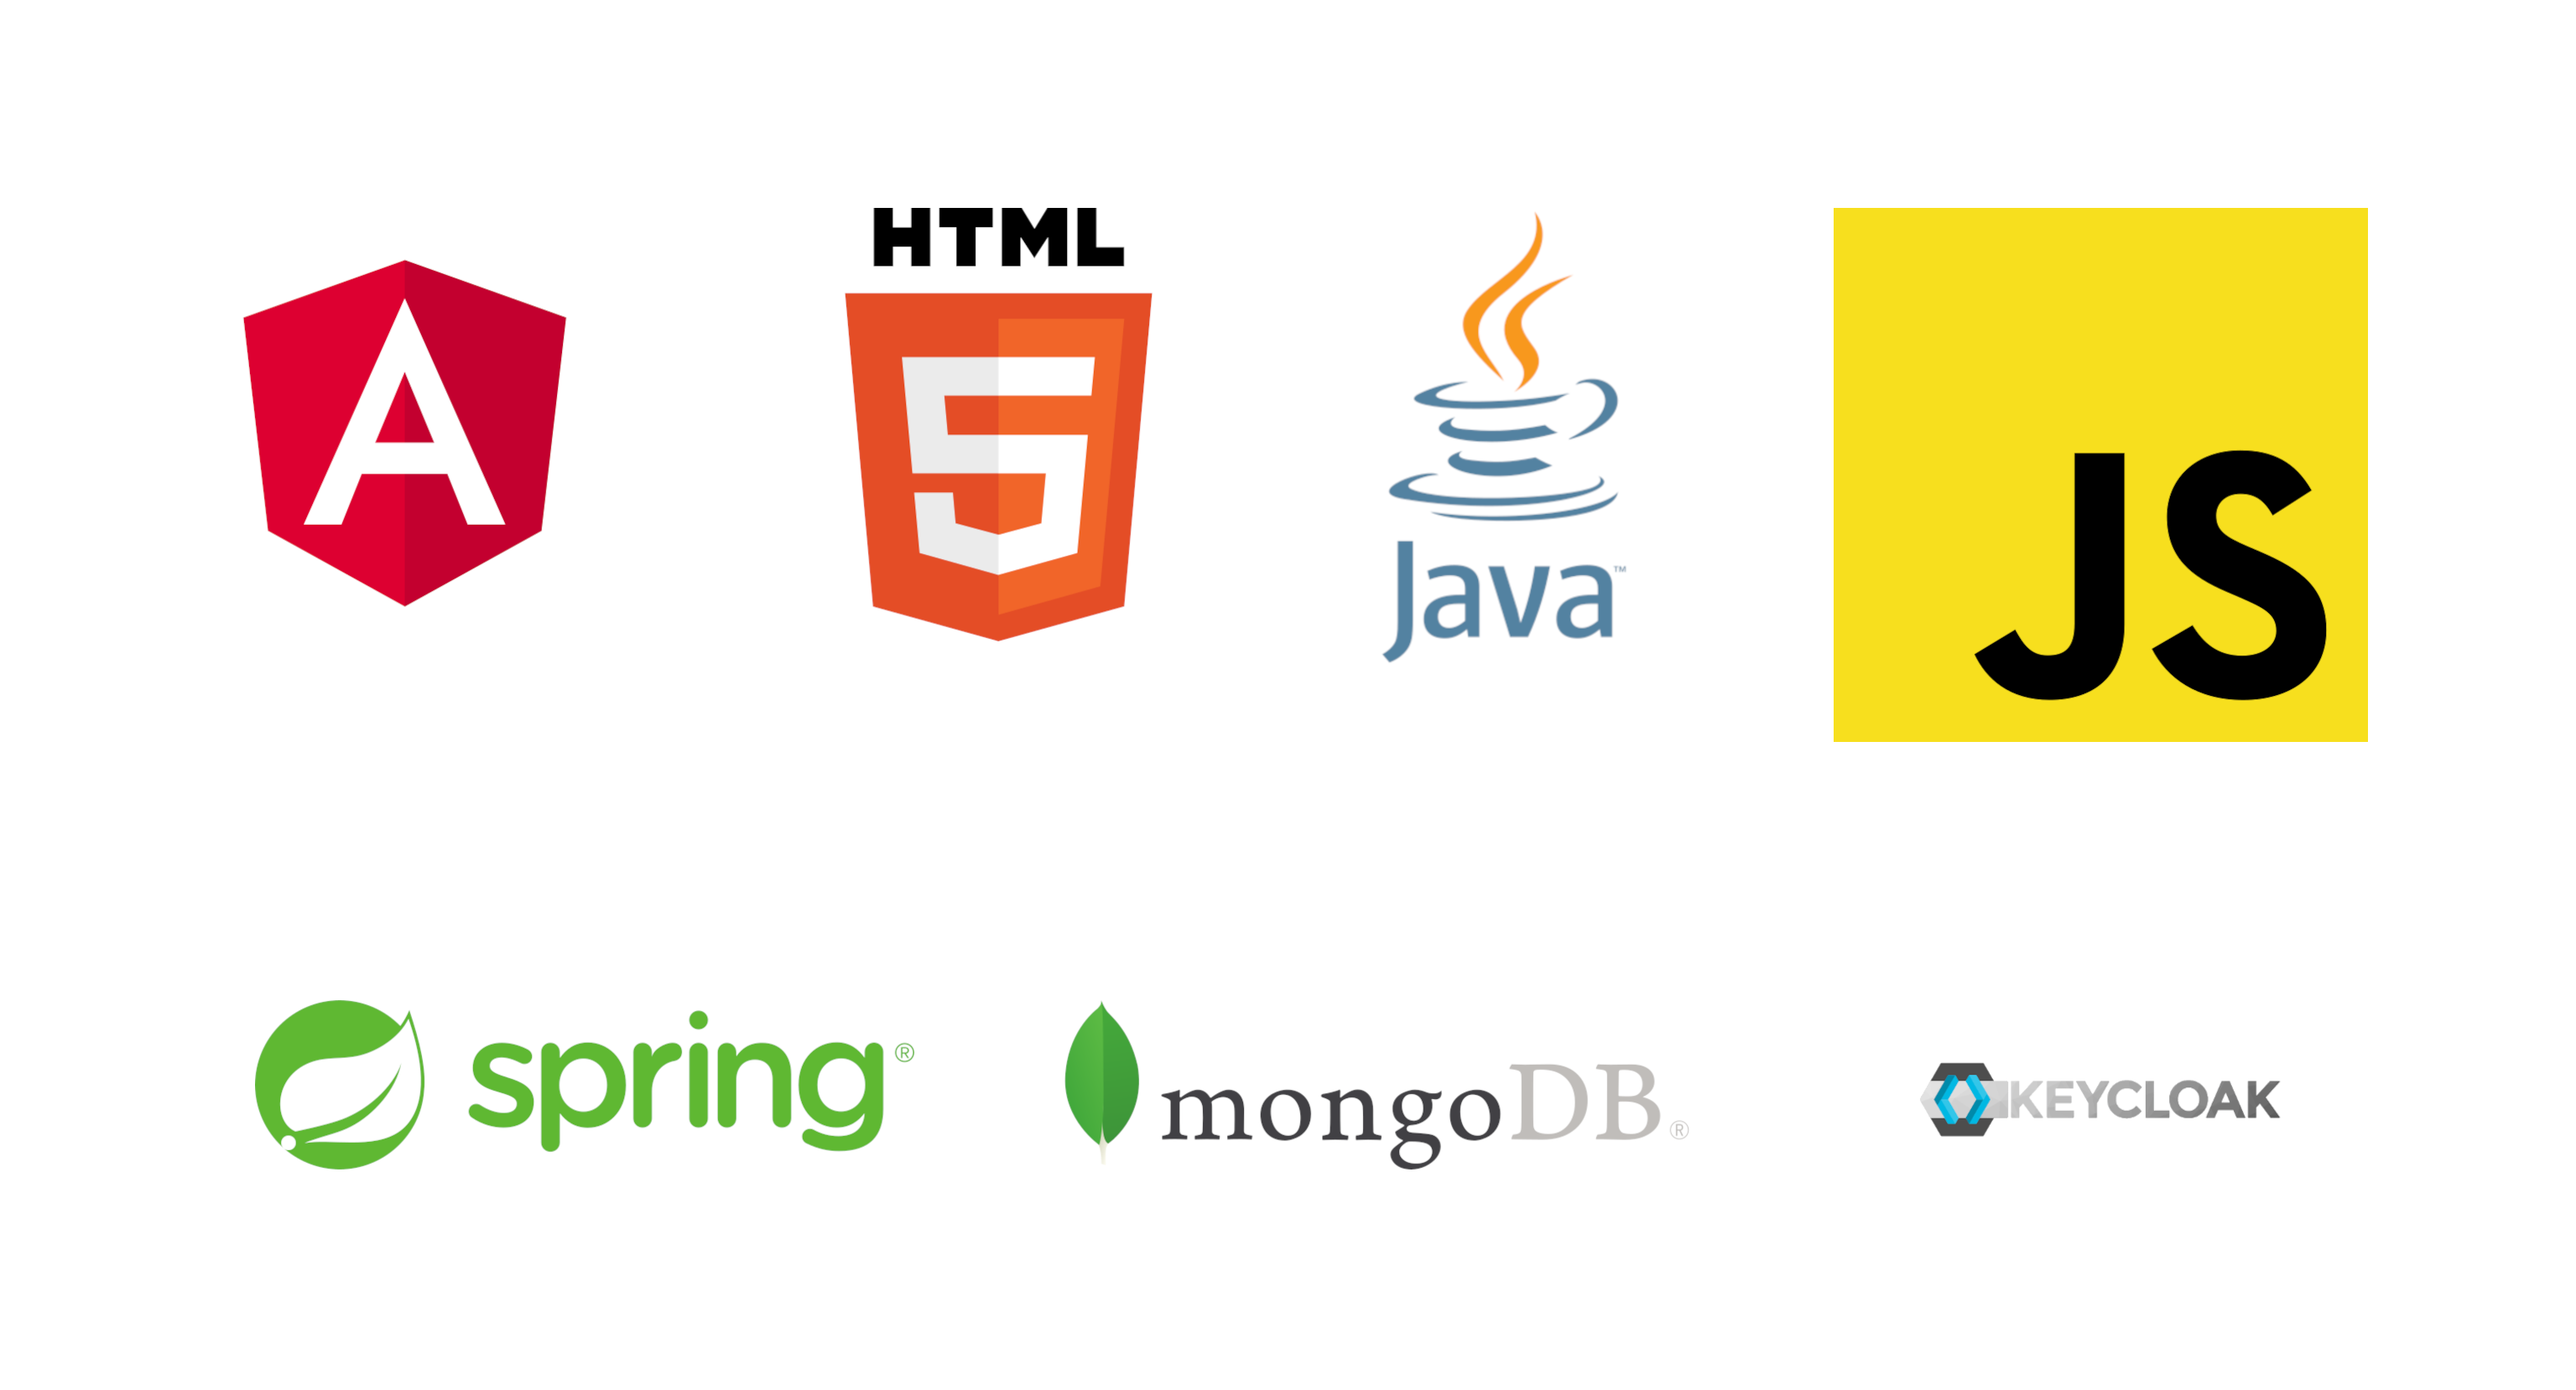
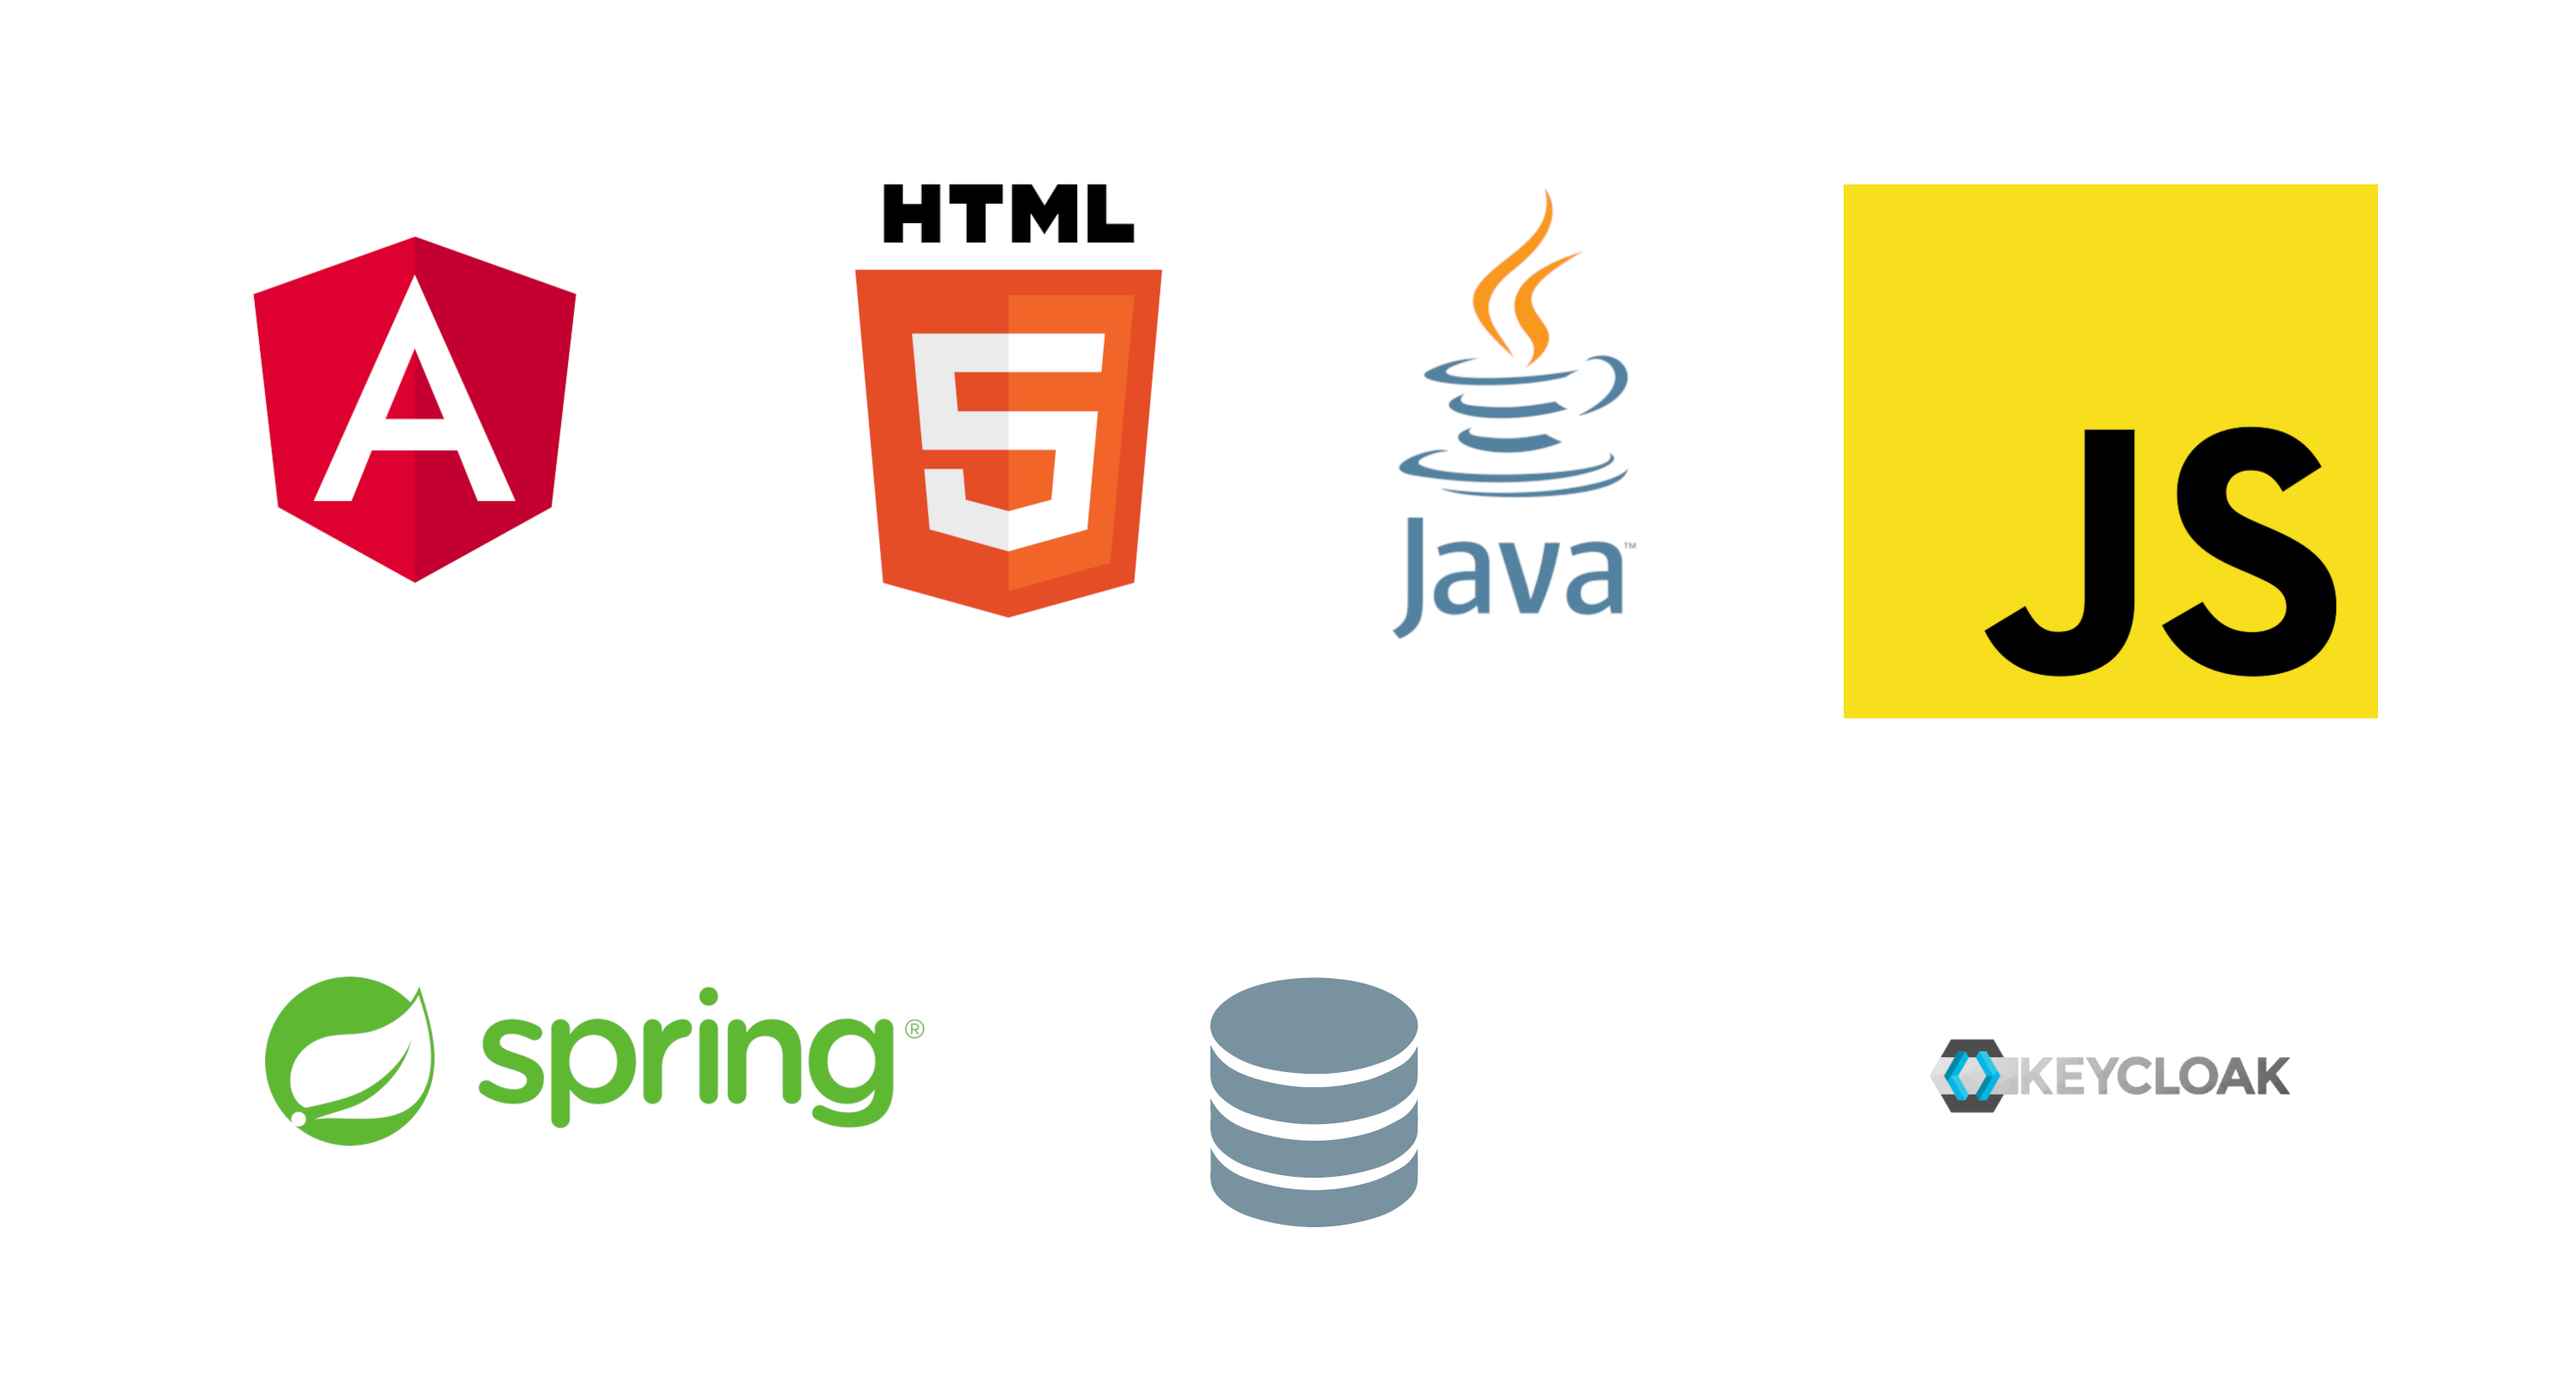
Modification du document sur la stack technique
Correction d'une erreur présente dans le détail de la stack technique utilisée. On n'utilise pas mongoDB mais bien JPA. J'ai remplacé cette partie.

diff --git a/Si-azerty/src/projet/E1-DESIGN.md b/Si-azerty/src/projet/E1-DESIGN.md
@@ -1,6 +1,6 @@
 # Architecture globale
 
-Nous avons opté pour une architecture de type MVC : 
+Nous avons opté pour une architecture de type MVC :
 - Modèle
 - Vue
 - Contôleur
@@ -18,13 +18,13 @@ graph LR;
 # Modèle de données
 Nous stockons nos données de cette manière :
 ![image](../../../image.png)
-Nous allons utiliser le langage JSON afin de stocker ces données, c'est un format pensé pour le web et qui sera utilisé par nos frameworks. De plus, c'est un format traduisible en Java, cela nous aidera grandement pour l'implémentation de nos idées. 
+Nous allons utiliser le langage JSON afin de stocker ces données, c'est un format pensé pour le web et qui sera utilisé par nos frameworks. De plus, c'est un format traduisible en Java, cela nous aidera grandement pour l'implémentation de nos idées.
 
 
 # Stack technique
 
 ![stack_technique](../../../stack_technique.png)
-Nous avons décidé d'utiliser différents frameworks et langages entre le front-end et le back-end. 
+Nous avons décidé d'utiliser différents frameworks et langages entre le front-end et le back-end.
 Pour l'affichage utilisateur (le front-end), nous utilisersons le JavaScript, le langage HTML et le framework Angular.
-En ce qui concerne le back-end, nous utiliserons le langage Java et le framework Spring ainsi que l'utilisation de mongoDB pour avoir une base de données.
+En ce qui concerne le back-end, nous utiliserons le langage Java et le framework Spring ainsi que l'utilisation de JPA pour ourganiser des données relationnelles de manière persistante pour retrouver un fonctionnement similaire à une base de données.
 Le framework Spring nous permet très simplement de créer des applications en tout genre. Dans notre cas, nous allons utiliser ce framework afin de créer quelques API qui seront appelées par le front. Ce framework permet aussi de gérer la connexion à des bases de données pour y stocker des données.
